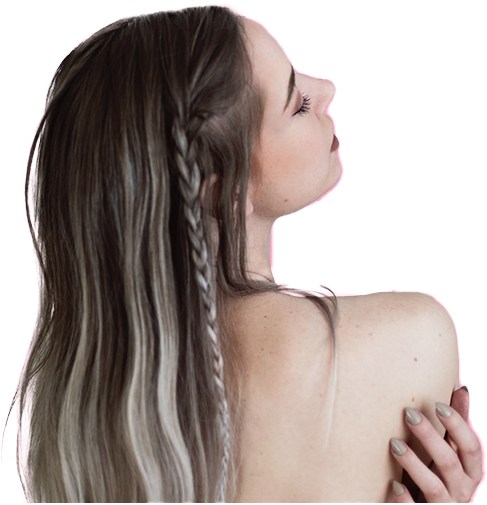
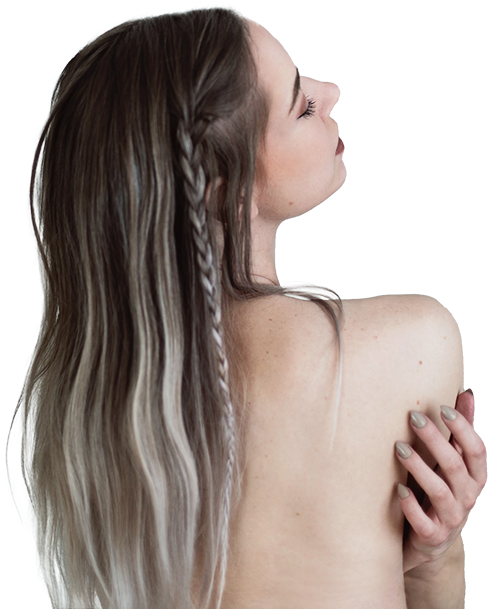
#main-visualの実装

diff --git a/assets/style/main.css b/assets/style/main.css
@@ -393,9 +393,9 @@ img {
 }
 #main-visual .main-visual__photo-and-text-container figure {
   display: block;
-  width: 13.0625rem;
-  height: 13.6875rem;
-  margin-top: -0.5rem;
+  width: 13.25rem;
+  height: 16.3125rem;
+  margin-top: -0.625rem;
 }
 #main-visual .sp_only.main-visual__woman-photo {
   width: 100%;
